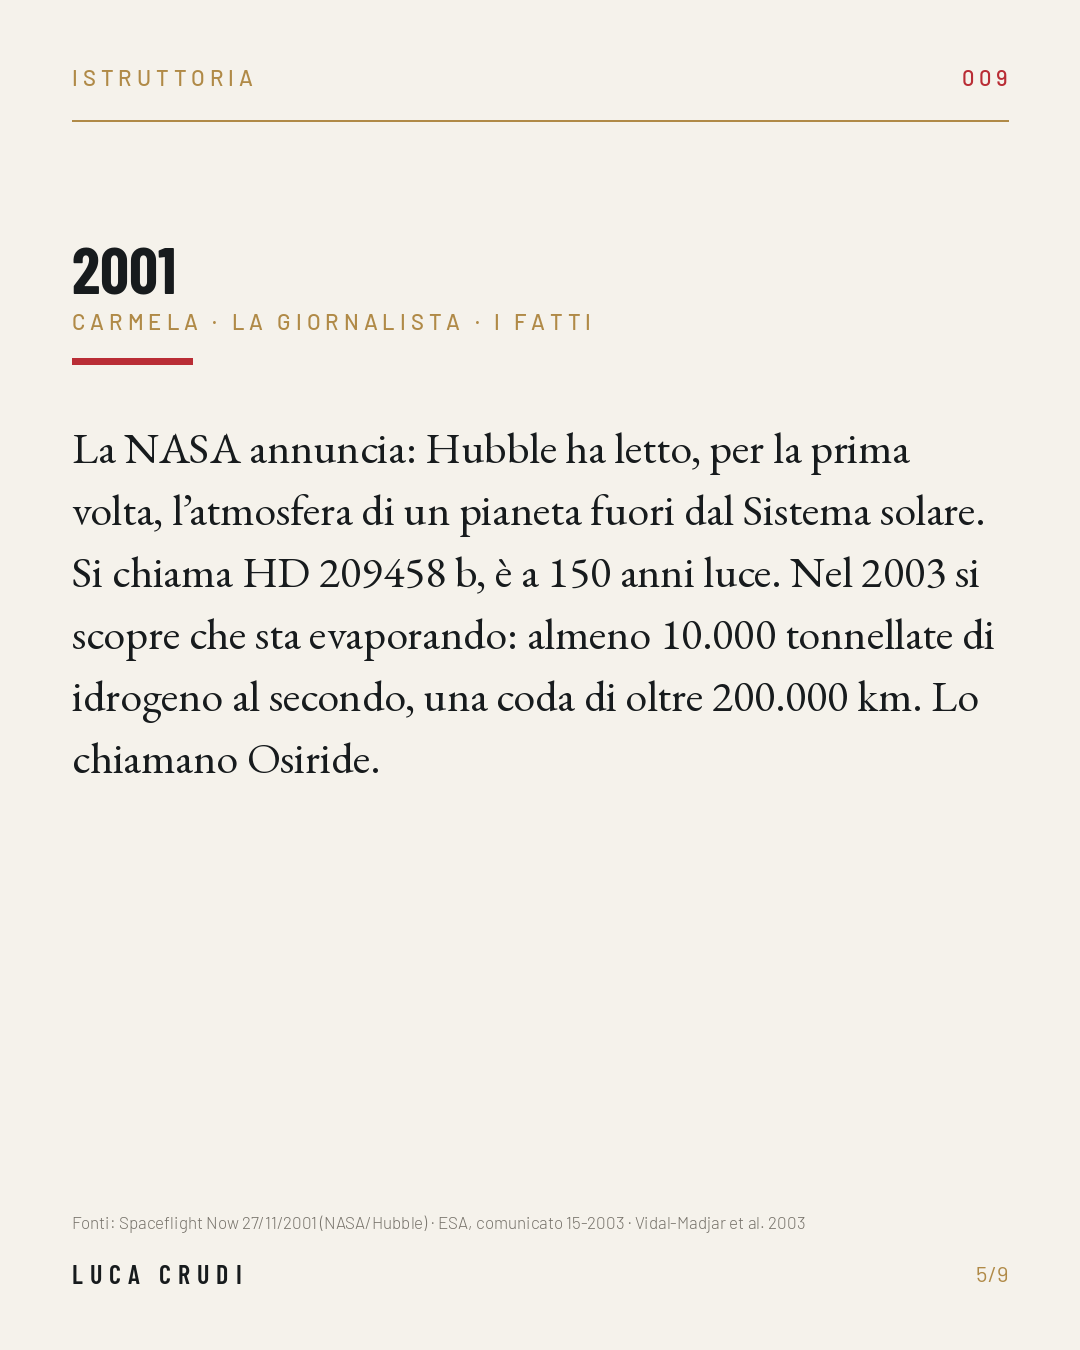
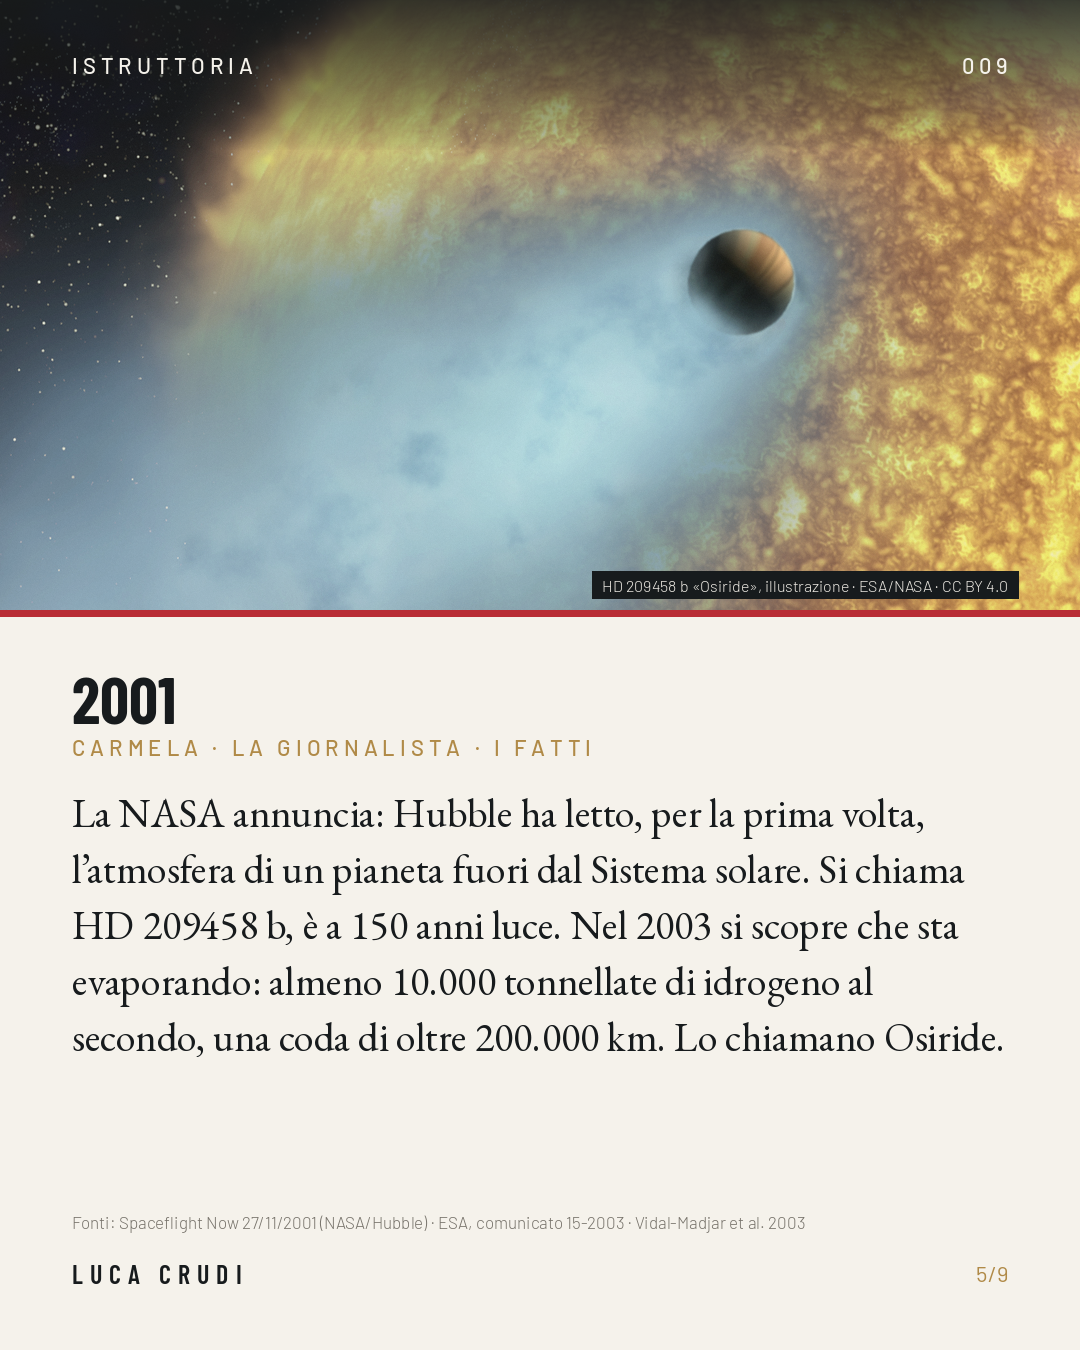
009 v2: aggiunte foto di Marte e Osiride
Claude-Session: https://claude.ai/code/session_01HsgSfpjM2fisnrn3vUkjob

diff --git a/post-2026-11/build_27novembre_v2.py b/post-2026-11/build_27novembre_v2.py
@@ -51,8 +51,8 @@ ritagli = {
     "nobel_busto": frac(nobel, 0.0, 0.08, 1.0, 0.50),
     "test_firma": frac(test, 0.52, 0.45, 1.0, 0.95),
     "test_alto": frac(test, 0.0, 0.0, 0.5, 0.45),
-    "marte": frac(marte, 0.5, 0.05, 1.0, 0.95),
-    "osir": frac(osir, 0.0, 0.15, 1.0, 0.75),
+    "marte": frac(marte, 0.0, 0.0, 1.0, 1.0),
+    "osir": frac(osir, 0.0, 0.40, 1.0, 0.80),
 }
 
 slides = []
@@ -86,7 +86,7 @@ slides.append(fonti(pts(test, ritagli["test_alto"], R, N, "George", "quello che 
     "Si racconta che Nobel abbia letto il proprio necrologio, pubblicato per errore. Qualcuno l’ha mai trovato, quel giornale? "
     "E di cosa aveva paura un uomo che chiede di farsi tagliare le arterie dopo morto?",
     f"7/{TOT}", quote=True, credit=C_TEST), S_NOBEL + " · Il necrologio prematuro è un aneddoto tramandato: qui è una domanda, non un fatto."))
-slides.append(fonti(pts(marte, frac(marte, 0.0, 0.05, 0.5, 0.95), R, N, "Diana", "la più responsabile",
+slides.append(fonti(pts(marte, frac(marte, 0.50, 0.0, 1.0, 1.0), R, N, "Diana", "la più responsabile",
     "Restiamo sui fatti. Un testamento firmato. Un relitto mai ritrovato. Un pianeta che perde la sua aria. "
     "Il necrologio? Finché non vedo quel giornale, per me resta un racconto.",
     f"8/{TOT}", quote=True, credit=C_MARTE), S_ALL))
